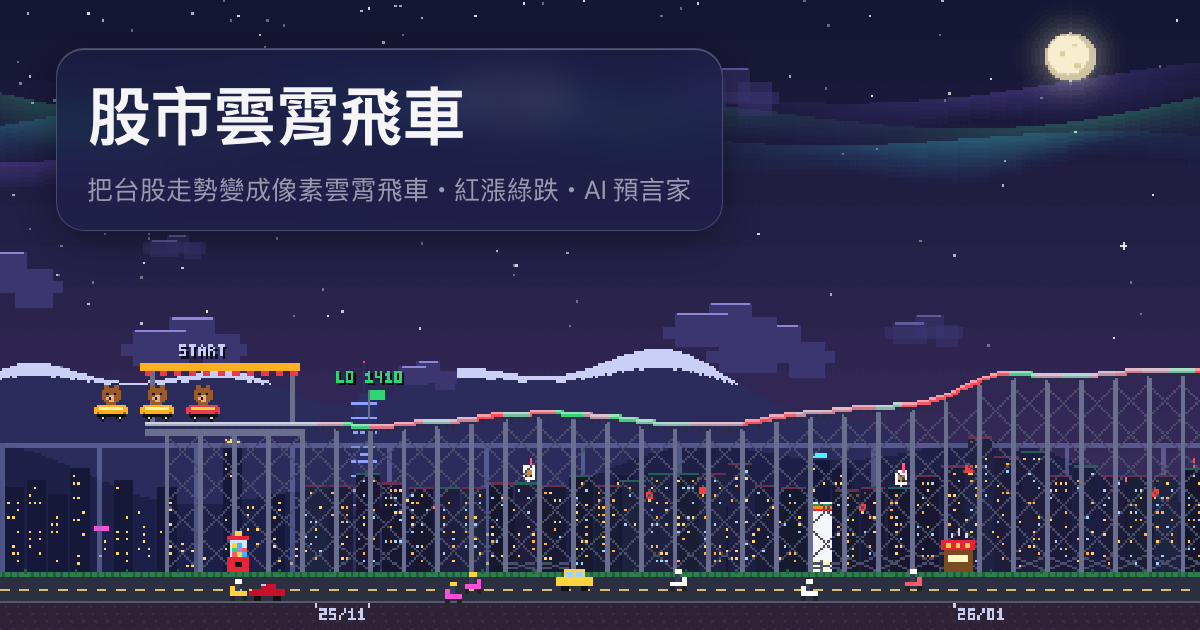
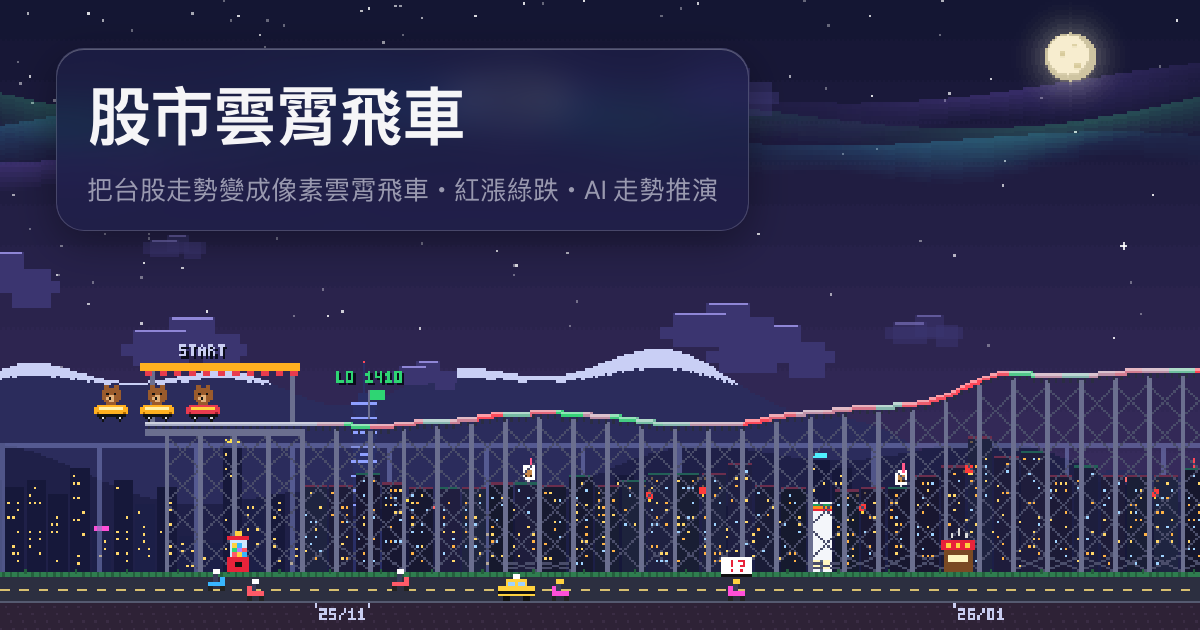
「AI 預言家」改為數據導向的「AI 走勢推演」
- 拿掉水晶球、籤詩等梗，面板改為偏多／偏空判讀、上漲機率、中位數、80% 區間與指標標籤（均線、RSI、近月動能、年化波動），附一句白話解讀
- 結算、解說字幕、SEO 描述、FAQ、README、分享圖同步改用新名稱
- 猜方向成就改名為「盤感很準」「盤感大師」

diff --git a/public/app.js b/public/app.js
@@ -736,15 +736,18 @@ function renderOracle() {
   const p = track.pred, last = p.last;
   const up = Math.round(p.pUp * 100);
   const unit = track.weekly ? '週' : '個交易日';
+  const r = p.median / last - 1;
+  const st = p.stance === '偏多' ? 'up' : p.stance === '偏空' ? 'down' : '';
   $('oracleMini').innerHTML = `
-    <div class="o-head"><svg><use href="#i-spark"/></svg><span class="o-long">AI 預言家 · ${p.horizon} ${unit}後</span><span class="o-short">AI 預言</span><b class="${cls(p.median - last)}">${fmtPct(p.median / last - 1, 1)}</b></div>
+    <div class="o-head"><svg><use href="#i-spark"/></svg><span class="o-long">AI 走勢推演 · 未來 ${p.horizon} ${unit}</span><span class="o-short">AI 推演</span><b class="${cls(r)}">${fmtPct(r, 1)}</b></div>
     <div class="o-body">
-      <div class="big ${cls(p.median - last)}">${fmtP(p.median)}</div>
+      <div class="o-top"><span class="o-stance ${st}">${p.stance}</span><span>中位數 <b class="${cls(r)}">${fmtP(p.median)}</b></span></div>
       <div class="bar2"><i style="width:${up}%"></i><i style="width:${100 - up}%"></i></div>
-      <div>上漲機率 <b class="up">${up}%</b> · 下跌 <b class="down">${100 - up}%</b></div>
-      <div>80% 區間：${fmtP(p.p10)} ~ ${fmtP(p.p90)}</div>
-      <div class="fortune">${p.mood}：「${p.fortune}」</div>
-      <div class="tiny">${p.signals.join(' · ')}<br>蒙地卡羅 600 條路徑的玩具模型，純屬娛樂，不構成投資建議。</div>
+      <div class="o-row"><span>上漲機率</span><b class="up">${up}%</b><span>下跌機率</span><b class="down">${100 - up}%</b></div>
+      <div class="o-row"><span>80% 區間</span><b>${fmtP(p.p10)} ~ ${fmtP(p.p90)}</b></div>
+      <div class="o-chips">${p.signals.map((g) => `<span class="${g.tone > 0 ? 'up' : g.tone < 0 ? 'down' : ''}">${g.k} <b>${g.v}</b></span>`).join('')}</div>
+      <div class="o-read">${p.read}</div>
+      <div class="tiny">600 條蒙地卡羅模擬＋均線、RSI、動能。統計推估，不是預測保證，也不構成投資建議。</div>
     </div>`;
 }
 $('oracleMini').onclick = () => {
@@ -782,7 +785,7 @@ function onNewDay(d) {
     if (!ride.inFuture) {
       ride.inFuture = true;
       unlock('future');
-      say('🔮 已穿越「今天」！以下軌道由 AI 預言家鋪設，沒有支架，請自求多福', 4200, true);
+      say('📈 駛過「今天」：接下來是 AI 推演的可能走勢（600 條模擬取中位數），沒有支架，僅供參考', 4200, true);
       checkGuess(closes[N - 1] / closes[0] - 1);
     }
     return;
@@ -1009,8 +1012,8 @@ function showSummary({ gameOver, ret, bonus, best, isBest }) {
       <div class="stat"><span>搭乘時間</span><b>${ride.t.toFixed(0)} 秒</b></div>
     </div>
     <div>${guessLine}</div>
-    <div class="verdict"><b>AI 預言家</b>：${pred.horizon} 個${unit}後中位數 <b class="${cls(pred.median - pred.last)}">${fmtP(pred.median)}（${fmtPct(pred.median / pred.last - 1, 1)}）</b>，
-      上漲機率 ${(pred.pUp * 100).toFixed(0)}%，信心 ${pred.confidence}/100。<br>${pred.mood}：「${pred.fortune}」</div>
+    <div class="verdict"><b>AI 走勢推演・${pred.stance}</b>：${pred.horizon} 個${unit}後中位數 <b class="${cls(pred.median - pred.last)}">${fmtP(pred.median)}（${fmtPct(pred.median / pred.last - 1, 1)}）</b>，
+      上漲機率 ${(pred.pUp * 100).toFixed(0)}%，80% 區間 ${fmtP(pred.p10)} ~ ${fmtP(pred.p90)}。<br>${pred.read}</div>
     ${ride.newAch.length ? `<div class="muted" style="margin-top:10px">這趟解鎖的成就</div><div class="newach">${ride.newAch.map((a) => `<div><span class="gicon sm">${a.ico}</span>${a.name}</div>`).join('')}</div>` : ''}
     <div class="btnrow"><button class="primary" id="againBtn">再坐一次</button><button id="shareBtn"><svg><use href="#i-share"/></svg> 分享這趟</button><button id="otherBtn">換一檔</button></div>
     <a class="promo" href="https://sectools.tw/?utm_source=stockcoaster&amp;utm_medium=referral&amp;utm_campaign=summary" target="_blank" rel="noopener"><span class="gicon sm">🧰</span><span>還沒玩夠？<b>SecTools.tw</b> 有火車駕駛、飛行模擬、資安扭蛋機，免費隨點即玩</span><svg><use href="#i-arrow"/></svg></a>
@@ -1215,7 +1218,7 @@ if (new URLSearchParams(location.search).has('og')) {
   document.documentElement.classList.add('og');
   const d = document.createElement('div');
   d.className = 'og-title';
-  d.innerHTML = '<b>股市雲霄飛車</b><span>把台股走勢變成像素雲霄飛車・紅漲綠跌・AI 預言家</span>';
+  d.innerHTML = '<b>股市雲霄飛車</b><span>把台股走勢變成像素雲霄飛車・紅漲綠跌・AI 走勢推演</span>';
   document.body.appendChild(d);
 }
 

diff --git a/public/ai.js b/public/ai.js
@@ -1,4 +1,4 @@
-// 「AI 預言家」：技術指標 + 蒙地卡羅模擬的玩具模型。純屬娛樂，不構成投資建議。
+// AI 走勢推演：技術指標 + 蒙地卡羅模擬的統計模型。純屬娛樂，不構成投資建議。
 
 const mean = (a) => a.reduce((s, x) => s + x, 0) / a.length;
 const sma = (a, n) => mean(a.slice(-n));
@@ -74,26 +74,29 @@ export function predict(points, horizon = 30, nPaths = 600) {
   }
   const pUp = finals.filter((x) => x > last).length / finals.length;
 
-  const signals = [];
-  if (ma20 > ma60) signals.push('MA20 站上 MA60（多頭排列）');
-  else signals.push('MA20 跌破 MA60（空頭排列）');
-  if (r14 > 70) signals.push(`RSI ${r14.toFixed(0)} 過熱，小心有人下車`);
-  else if (r14 < 30) signals.push(`RSI ${r14.toFixed(0)} 超賣，地板很硬？`);
-  else signals.push(`RSI ${r14.toFixed(0)} 溫和`);
-  signals.push(`近月動能 ${(mom * 100).toFixed(1)}%`);
+  // 年化波動度（日線 252、週線 52）
+  const stepDays = (points[points.length - 1].t - points[0].t) / 86400 / Math.max(1, points.length - 1);
+  const annVol = sigma * Math.sqrt(stepDays > 3 ? 52 : 252);
+  const p10 = bands.p10[horizon], p90 = bands.p90[horizon];
+  const width = (p90 - p10) / last;
 
-  const mood = pUp > 0.55 ? '🔮 水晶球泛紅光' : pUp < 0.45 ? '🔮 水晶球冒綠煙' : '🔮 水晶球一片霧茫茫';
-  const fortunes = pUp > 0.55
-    ? ['前方坡道向上，記得拍照。', '天機：漲。但天機常常洩漏錯的。', '我看到紅色……也可能是我眼睛充血。']
-    : pUp < 0.45
-      ? ['前方有下坡，雙手舉高比較好玩。', '天機：跌。抱緊你旁邊的乘客。', '綠色的光芒……是不是草地？']
-      : ['五五波。這不是預測，這是擲硬幣。', '多空交戰中，預言家去泡茶了。', '前方路況：雲霧繚繞，請慢行。'];
+  // 訊號：短、白話、不賣弄
+  const signals = [
+    { k: '均線', v: ma20 > ma60 ? '多頭排列' : '空頭排列', tone: ma20 > ma60 ? 1 : -1 },
+    { k: 'RSI', v: `${r14.toFixed(0)}・${r14 > 70 ? '過熱' : r14 < 30 ? '超賣' : '中性'}`, tone: r14 > 70 ? -1 : r14 < 30 ? 1 : 0 },
+    { k: '近月動能', v: `${mom >= 0 ? '+' : ''}${(mom * 100).toFixed(1)}%`, tone: Math.sign(mom) },
+    { k: '年化波動', v: `${(annVol * 100).toFixed(0)}%`, tone: 0 },
+  ];
+  const stance = pUp >= 0.55 ? '偏多' : pUp <= 0.45 ? '偏空' : '中性';
+  let read;
+  if (width > 0.35) read = `波動很大，80% 區間寬達 ${(width * 100).toFixed(0)}%，看區間比看方向實際。`;
+  else if (stance === '偏多') read = ma20 > ma60 ? '均線與動能同向偏多，模擬多數收在今天之上。' : '模擬略偏多，但均線還沒翻多，訊號不太一致。';
+  else if (stance === '偏空') read = ma20 < ma60 ? '均線與動能偏弱，模擬多數收在今天之下。' : '模擬略偏空，但均線仍是多頭排列，訊號分歧。';
+  else read = '多空訊號互相抵銷，方向接近五五波。';
 
   return {
     horizon, sigma, pUp, last,
     median: med, p10: bands.p10[horizon], p90: bands.p90[horizon],
-    bands, path: best, signals, mood,
-    fortune: fortunes[Math.floor(Math.random() * fortunes.length)],
-    confidence: Math.round(Math.abs(pUp - 0.5) * 200),
+    bands, path: best, signals, stance, read, annVol,
   };
 }

diff --git a/public/style.css b/public/style.css
@@ -330,3 +330,18 @@ body.summary-open #hud .controls, body.summary-open .minimap, body.summary-open 
   .btnrow { flex-wrap: wrap; }
   .btnrow button { flex: 1 1 30%; padding: 10px 8px; font-size: 14px; }
 }
+
+/* AI 走勢推演面板 */
+.o-top { display: flex; align-items: center; gap: 10px; font-size: 13px; }
+.o-top b { font-size: 18px; font-variant-numeric: tabular-nums; }
+.o-stance { font-size: 12px; font-weight: 700; padding: 2px 10px; border-radius: 99px; background: var(--tint); border: 1px solid var(--glass-border); }
+.o-stance.up { background: color-mix(in srgb, var(--up) 18%, transparent); color: var(--up); }
+.o-stance.down { background: color-mix(in srgb, var(--down) 18%, transparent); color: var(--down); }
+.o-row { display: flex; gap: 6px; align-items: baseline; margin: 3px 0; font-variant-numeric: tabular-nums; }
+.o-row span { color: var(--muted); font-size: 12px; }
+.o-row b { margin-right: 8px; }
+.o-chips { display: flex; flex-wrap: wrap; gap: 4px; margin: 8px 0 6px; }
+.o-chips span { font-size: 11px; padding: 2px 8px; border-radius: 99px; background: var(--tint); border: 1px solid var(--glass-border); color: var(--muted); }
+.o-chips span b { color: var(--text); font-weight: 600; }
+.o-chips span.up b { color: var(--up); } .o-chips span.down b { color: var(--down); }
+.o-read { font-size: 13px; line-height: 1.5; }

diff --git a/public/achievements.js b/public/achievements.js
@@ -13,8 +13,8 @@ export const ACHIEVEMENTS = [
   { id: 'gforce', ico: '🛩', name: '戰鬥機飛行員', desc: '承受 3.5G 以上' },
   { id: 'float', ico: '🪶', name: '失重漂浮', desc: 'G 力低於 0（屁股離開座位）' },
   { id: 'marathon', ico: '🏃', name: '五年馬拉松', desc: '坐完 5 年期間' },
-  { id: 'prophet', ico: '🔮', name: '神準預言家', desc: '發車前猜對終點方向' },
-  { id: 'prophet3', ico: '🧙', name: '股市仙人', desc: '累積猜對 3 次' },
+  { id: 'prophet', ico: '🎯', name: '盤感很準', desc: '發車前猜對終點方向' },
+  { id: 'prophet3', ico: '🧠', name: '盤感大師', desc: '累積猜對 3 次' },
   { id: 'diamond', ico: '💎', name: '鑽石手', desc: '經歷 30% 以上回檔仍坐到終點' },
   { id: 'chicken', ico: '🐔', name: '我要下車！', desc: '一趟內按 5 次暫停' },
   { id: 'leek', ico: '🥬', name: '韭菜之心', desc: '坐完一趟報酬 < -20%' },

diff --git a/public/index.html b/public/index.html
@@ -4,7 +4,7 @@
   <meta charset="utf-8" />
   <meta name="viewport" content="width=device-width, initial-scale=1, viewport-fit=cover" />
   <!--SEO:HEAD--><title>股市雲霄飛車 StockCoaster｜把台股走勢變成像素雲霄飛車</title>
-  <meta name="description" content="輸入台股代號，股價走勢立刻變成像素雲霄飛車：漲是爬坡、跌是俯衝，附 AI 預言家、成就系統與亮暗主題。" /><!--/SEO:HEAD-->
+  <meta name="description" content="輸入台股代號，股價走勢立刻變成像素雲霄飛車：漲是爬坡、跌是俯衝，附 AI 走勢推演、成就系統與日夜主題。" /><!--/SEO:HEAD-->
   <link rel="icon" href="favicon.svg" type="image/svg+xml" />
   <link rel="apple-touch-icon" href="icon-180.png" />
   <link rel="stylesheet" href="style.css" />

diff --git a/seo.py b/seo.py
@@ -70,13 +70,13 @@ def head_html(site, code=None, info=None):
         ind = info.get("industry") or ""
         title = f"{name}股價走勢 {code}｜坐一趟雲霄飛車看懂漲跌 – 股市雲霄飛車"
         desc = (f"{name}（{code}）股價走勢變成像素雲霄飛車！漲是喀喀喀爬坡、跌是全車尖叫俯衝，"
-                f"一趟看懂{name}的最大回檔、創新高次數與單日最大漲跌，還有 AI 預言家推估未來 30 個交易日。免費免註冊，手機也能玩。")
+                f"一趟看懂{name}的最大回檔、創新高次數與單日最大漲跌，還有 AI 走勢推演估算未來 30 個交易日的可能區間。免費免註冊，手機也能玩。")
         url = f"{site}{code}/"
         kw = f"{name},{code},{name}股價,{code}股價,{name}股價走勢,{name}走勢圖,{name}K線,台股,{ind or '台股'},股市雲霄飛車"
     else:
         title = "股市雲霄飛車｜台股走勢變成雲霄飛車，台積電、0050 一鍵發車"
         desc = ("看盤太無聊？輸入台股代號，股價走勢立刻變成像素雲霄飛車：紅漲綠跌、漲停衝天、跌停俯衝。"
-                "上市櫃股票與 ETF 都能坐，可自訂期間，附 AI 預言家與遊戲模式，免費免註冊。")
+                "上市櫃股票與 ETF 都能坐，可自訂期間，附 AI 走勢推演與遊戲模式，免費免註冊。")
         url = site
         kw = "台股,股價走勢,台積電股價,0050,ETF,存股,K線,股市遊戲,雲霄飛車,AI 股價預測"
     img = f"{site}og.png"
@@ -133,7 +133,7 @@ FAQ = [
      "資料來自 Yahoo Finance 與 FinMind 的公開台股資料，每個交易日收盤後更新。股票分割會自動還原，除權息造成的缺口會特別標示，不會被誤判成跌停。"),
     ("要付費、下載或註冊嗎？", "完全免費，免安裝、免註冊，用手機或電腦的瀏覽器打開就能玩。"),
     ("哪些股票可以坐？", "所有上市、上櫃股票和 ETF 都可以，例如台積電 2330、元大台灣50 0050、鴻海 2317、聯發科 2454、長榮 2603、元大高股息 0056、國泰永續高股息 00878。"),
-    ("AI 預言家準嗎？", "AI 預言家用均線、RSI、近月動能和 600 條蒙地卡羅模擬，推估未來 30 個交易日的可能區間。它比較像廟口的籤筒，不是分析師，純屬娛樂，不構成投資建議。"),
+    ("AI 走勢推演是怎麼算的？準嗎？", "AI 走勢推演結合均線、RSI、近月動能與 600 條蒙地卡羅模擬，估算未來 30 個交易日的上漲機率、中位數與 80% 可能區間。它是統計推估，不是預測保證，純屬娛樂，不構成投資建議。"),
     ("可以分享給朋友嗎？", "每檔股票都有專屬網址，例如 /2330/ 或 /0050/?range=5y。坐完按「分享這趟」，就能把報酬、最大回檔和尖叫次數傳給朋友。"),
 ]
 
@@ -149,7 +149,7 @@ def about_html(stocks, code=None, info=None, prefix=""):
         parts.append(
             f"<p>{_e(name)}是台股{desc_ind}。按下「發車」，{_e(name)}近一年的收盤價會鋪成一整條軌道："
             f"紅色爬坡是上漲、綠色俯衝是下跌，成交量越大，底下的樓就蓋得越高。爆量那天還會蓋出一棟台北 101。</p>"
-            f"<p>坐到「今天」之後，列車會駛入 AI 預言家鋪的紫色未來軌道，看看{_e(name)}接下來 30 個交易日可能怎麼走。"
+            f"<p>坐到「今天」之後，列車會駛入 AI 走勢推演的紫色未來軌道，看看{_e(name)}接下來 30 個交易日可能落在哪個區間。"
             f"一路上還會看到散戶追高上車、停損下車，比看 K 線圖有感多了。</p>")
         parts.append(
             f'<p>換個期間坐坐看：<a href="./?range=3mo">近 3 個月</a>・<a href="./?range=ytd">今年以來</a>・'

diff --git a/README.md b/README.md
@@ -25,7 +25,7 @@ python3 server.py
 
 ## 小巧思
 
-- 🔮 **AI 預言家**：均線、RSI、動能 + 600 條蒙地卡羅路徑，鋪出「今天之後」30 個交易日的紫色未來軌道（沒有支架、飄在空中），外加 80% 機率布幕
+- 📈 **AI 走勢推演**：均線、RSI、動能 + 600 條蒙地卡羅路徑，鋪出「今天之後」30 個交易日的紫色未來軌道（沒有支架、飄在空中）與 80% 機率布幕，面板顯示偏多／偏空、上漲機率、中位數、區間與年化波動
 - 🏙 **成交量城市**：軌道下方每棟大樓的高度 = 當日成交量
 - 🪙 創新高噴金幣＋放煙火、🌧 從高點回檔超過 15% 開始下雨、天空隨近期漲跌變色
 - 😱 尖叫指數、G 力、時速；乘客頭上會冒對話泡泡（`!`、`$`、`?`），大跌時畫面震動、高速有速度線
